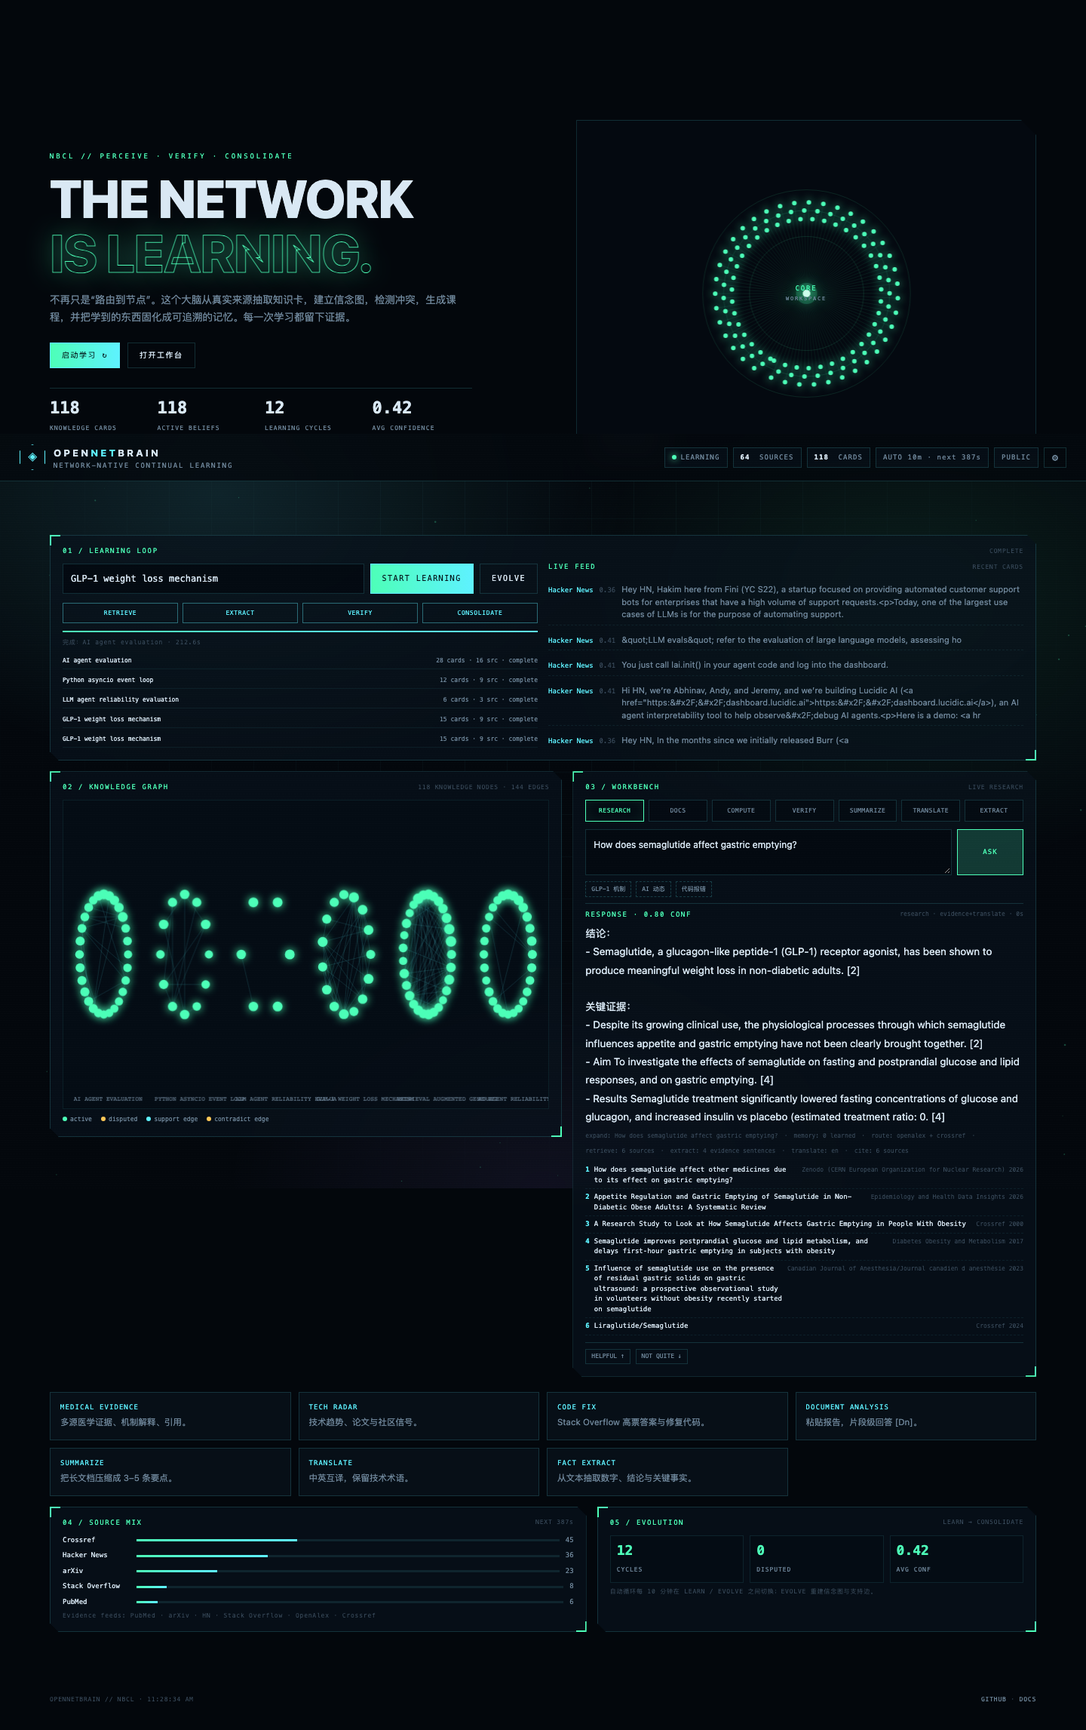
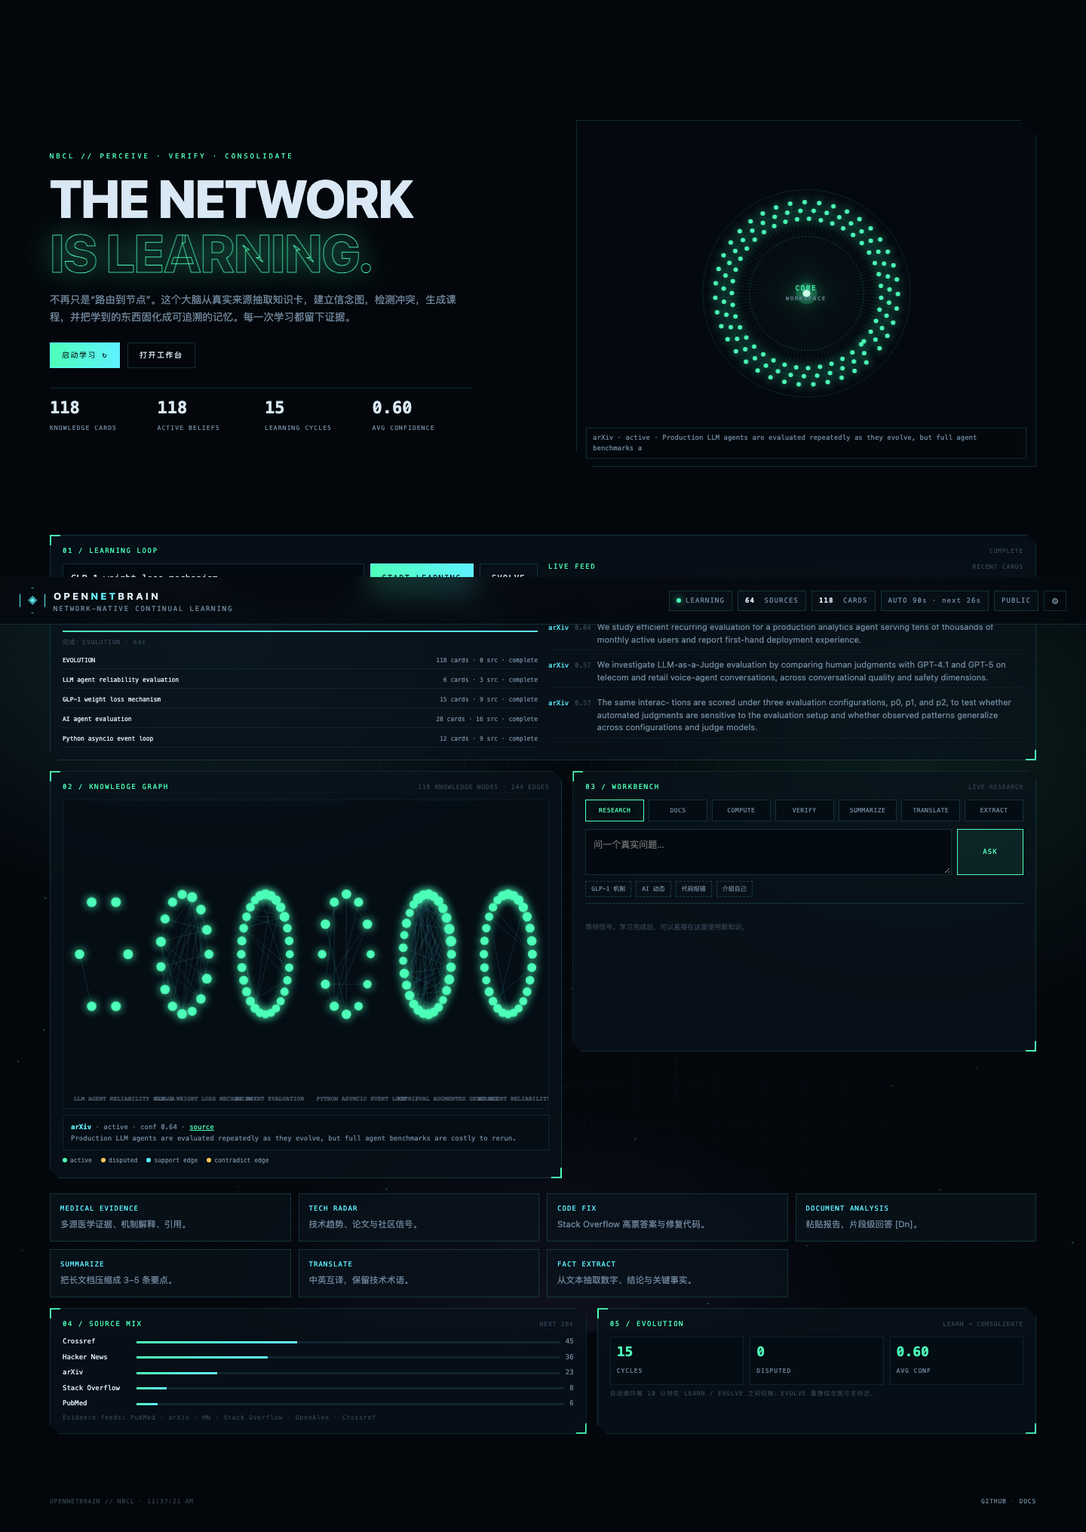
fix: graph detail, self-intro, 90s auto loop, brain v8

diff --git a/brain.html b/brain.html
@@ -58,6 +58,8 @@ textarea,input{background:rgba(3,9,15,.85);border:1px solid var(--line);color:va
 .bottom{display:grid;grid-template-columns:1.1fr .9fr;gap:14px;margin-top:14px}.node{display:flex;justify-content:space-between;gap:8px;font:8px/1.5 var(--mono);border-bottom:1px solid rgba(94,242,255,.08);padding:4px 0;color:var(--muted)}.node b{color:var(--text);font-weight:500}
 pre{background:rgba(3,9,15,.9);border:1px solid var(--line);padding:9px;color:var(--cyan);font:8.5px/1.7 var(--mono);white-space:pre-wrap;word-break:normal;overflow-wrap:break-word;margin:0 0 7px}.copy{width:100%;border:1px solid var(--green);background:rgba(77,255,184,.08);color:var(--green);font:8px/1 var(--mono);letter-spacing:.12em;padding:7px;cursor:pointer}
 .modal{position:fixed;inset:0;z-index:300;display:none;place-items:center;background:rgba(2,5,9,.85);backdrop-filter:blur(10px)}.modal.open{display:grid}.modal-card{width:min(420px,92vw);background:#08111b;border:1px solid var(--green);padding:20px}.modal-card h3{font:10px/1 var(--mono);letter-spacing:.2em;color:var(--green);margin:0 0 8px}.modal-card p{color:var(--muted);font-size:11px;margin:0 0 12px}.modal-actions{display:flex;gap:7px;margin-top:10px}.modal-actions button{flex:1;padding:8px;font:8px/1 var(--mono);letter-spacing:.12em;cursor:pointer;border:1px solid var(--green);background:var(--green);color:#021016}.modal-actions .ghost{background:transparent;color:var(--text);border-color:var(--line)}
+.graph-detail{margin-top:8px;border:1px solid rgba(94,242,255,.12);padding:8px 10px;font:9px/1.6 var(--mono);color:var(--muted);min-height:38px;background:rgba(3,9,15,.35)}
+.graph-detail b{color:var(--cyan)}.graph-detail a{color:var(--green)}
 .mix{display:flex;flex-direction:column;gap:7px}
 .mix-row{display:flex;align-items:center;gap:8px;font:9px/1.5 var(--mono);color:var(--muted)}
 .mix-row b{width:90px;color:var(--text);font-weight:500}.mix-bar{flex:1;height:3px;background:rgba(94,242,255,.1);overflow:hidden}.mix-bar i{display:block;height:100%;background:linear-gradient(90deg,var(--green),var(--cyan))}
@@ -137,6 +139,7 @@ footer{max-width:1360px;margin:0 auto;padding:0 26px 34px;display:flex;justify-c
     <div class="panel">
       <div class="head"><span class="tag">02 / KNOWLEDGE GRAPH</span><span class="hint" id="graphInfo">--</span></div>
       <canvas id="graphCanvas"></canvas>
+      <div class="graph-detail" id="graphDetail">点击节点查看知识卡</div>
       <div class="legend"><span><i style="background:#4dffb8"></i>active</span><span><i style="background:#ffc857"></i>disputed</span><span><i style="background:#5ef2ff"></i>support edge</span><span><i style="background:#ffc857"></i>contradict edge</span></div>
     </div>
 
@@ -159,6 +162,7 @@ footer{max-width:1360px;margin:0 auto;padding:0 26px 34px;display:flex;justify-c
         <button data-q="GLP-1 减肥药的作用机制是什么？">GLP-1 机制</button>
         <button data-q="最近 AI 领域有什么值得关注的事？">AI 动态</button>
         <button data-q="Python asyncio RuntimeError event loop is closed 怎么解决？">代码报错</button>
+        <button data-q="介绍一下你自己">介绍自己</button>
       </div>
       <div class="response" id="response"><div class="empty">等待信号。学习完成后，可以直接在这里使用新知识。</div></div>
     </div>
@@ -242,7 +246,8 @@ async function refreshBrain() {
     $('statCycles').textContent = m.cycles ?? 0; $('statConf').textContent = (m.avg_confidence ?? 0).toFixed(2);
     $('cardCountTop').textContent = m.cards ?? 0;
     const a = s.auto || {};
-    $('autoState').textContent = a.enabled ? `AUTO ${Math.round((a.interval||600)/60)}m · next ${a.next_in ?? '--'}s` : 'AUTO OFF';
+    const sec = a.interval || 90; const alabel = sec < 120 ? `${sec}s` : `${Math.round(sec/60)}m`;
+    $('autoState').textContent = a.enabled ? `AUTO ${alabel} · next ${a.next_in ?? '--'}s` : 'AUTO OFF';
     $('autoHint').textContent = a.enabled ? `NEXT ${a.next_in ?? '--'}s` : 'AUTO OFF';
     $('linkState').textContent = m.cards ? 'LEARNING' : 'IDLE'; $('dot').classList.toggle('off', !m.cards);
     $('sourceCount').textContent = m.sources ?? 0;
@@ -290,10 +295,18 @@ function drawGraph() {
   (state.graph.edges||[]).forEach(e => { const a=pos[e.source], b=pos[e.target]; if(!a||!b)return; x.beginPath(); x.moveTo(a.x,a.y); x.lineTo(b.x,b.y); x.strokeStyle=e.kind==='contradicts'?'rgba(255,200,87,.35)':'rgba(94,242,255,.14)'; x.stroke(); });
   nodes.forEach(n => { const p=pos[n.id]; x.beginPath(); x.arc(p.x,p.y,4+Math.min(3,(n.confidence||.5)*4),0,7); x.fillStyle=n.status==='disputed'?'#ffc857':'#4dffb8'; x.shadowColor=x.fillStyle; x.shadowBlur=12; x.fill(); x.shadowBlur=0; });
   centers.forEach(c0 => { x.fillStyle='rgba(111,135,155,.8)'; x.font='8px monospace'; x.fillText(c0.t.toUpperCase().slice(0,28), c0.x-40, H-10); });
+  window.__graphPos = pos; window.__graphNodes = nodes;
   c.onclick = ev => {
     const rect=c.getBoundingClientRect(); const mx=ev.clientX-rect.left, my=ev.clientY-rect.top;
     let best=null, bd=1e9; nodes.forEach(n=>{const p=pos[n.id];const d=Math.hypot(p.x-mx,p.y-my);if(d<bd){bd=d;best=n;}});
-    if(best && bd<18){ $('nodeDetail').textContent = `${best.source_type} · ${best.status} · conf ${best.confidence} — ${best.label}`; } else { $('nodeDetail').textContent='点击脑图节点查看知识卡'; }
+    if(best && bd<22){
+      const link = best.source_url ? ` · <a href="${esc(best.source_url)}" target="_blank" rel="noopener">source</a>` : '';
+      $('graphDetail').innerHTML = `<b>${esc(best.source_type||'')}</b> · ${esc(best.status)} · conf ${Number(best.confidence||0).toFixed(2)}${link}<br>${esc(best.claim||best.label)}`;
+      $('nodeDetail').textContent = `${best.source_type} · ${best.status} · ${best.label}`;
+    } else {
+      $('graphDetail').textContent = '点击节点查看知识卡';
+      $('nodeDetail').textContent = '点击脑图节点查看知识卡';
+    }
   };
 }
 

diff --git a/docs/brain.html b/docs/brain.html
@@ -58,6 +58,8 @@ textarea,input{background:rgba(3,9,15,.85);border:1px solid var(--line);color:va
 .bottom{display:grid;grid-template-columns:1.1fr .9fr;gap:14px;margin-top:14px}.node{display:flex;justify-content:space-between;gap:8px;font:8px/1.5 var(--mono);border-bottom:1px solid rgba(94,242,255,.08);padding:4px 0;color:var(--muted)}.node b{color:var(--text);font-weight:500}
 pre{background:rgba(3,9,15,.9);border:1px solid var(--line);padding:9px;color:var(--cyan);font:8.5px/1.7 var(--mono);white-space:pre-wrap;word-break:normal;overflow-wrap:break-word;margin:0 0 7px}.copy{width:100%;border:1px solid var(--green);background:rgba(77,255,184,.08);color:var(--green);font:8px/1 var(--mono);letter-spacing:.12em;padding:7px;cursor:pointer}
 .modal{position:fixed;inset:0;z-index:300;display:none;place-items:center;background:rgba(2,5,9,.85);backdrop-filter:blur(10px)}.modal.open{display:grid}.modal-card{width:min(420px,92vw);background:#08111b;border:1px solid var(--green);padding:20px}.modal-card h3{font:10px/1 var(--mono);letter-spacing:.2em;color:var(--green);margin:0 0 8px}.modal-card p{color:var(--muted);font-size:11px;margin:0 0 12px}.modal-actions{display:flex;gap:7px;margin-top:10px}.modal-actions button{flex:1;padding:8px;font:8px/1 var(--mono);letter-spacing:.12em;cursor:pointer;border:1px solid var(--green);background:var(--green);color:#021016}.modal-actions .ghost{background:transparent;color:var(--text);border-color:var(--line)}
+.graph-detail{margin-top:8px;border:1px solid rgba(94,242,255,.12);padding:8px 10px;font:9px/1.6 var(--mono);color:var(--muted);min-height:38px;background:rgba(3,9,15,.35)}
+.graph-detail b{color:var(--cyan)}.graph-detail a{color:var(--green)}
 .mix{display:flex;flex-direction:column;gap:7px}
 .mix-row{display:flex;align-items:center;gap:8px;font:9px/1.5 var(--mono);color:var(--muted)}
 .mix-row b{width:90px;color:var(--text);font-weight:500}.mix-bar{flex:1;height:3px;background:rgba(94,242,255,.1);overflow:hidden}.mix-bar i{display:block;height:100%;background:linear-gradient(90deg,var(--green),var(--cyan))}
@@ -137,6 +139,7 @@ footer{max-width:1360px;margin:0 auto;padding:0 26px 34px;display:flex;justify-c
     <div class="panel">
       <div class="head"><span class="tag">02 / KNOWLEDGE GRAPH</span><span class="hint" id="graphInfo">--</span></div>
       <canvas id="graphCanvas"></canvas>
+      <div class="graph-detail" id="graphDetail">点击节点查看知识卡</div>
       <div class="legend"><span><i style="background:#4dffb8"></i>active</span><span><i style="background:#ffc857"></i>disputed</span><span><i style="background:#5ef2ff"></i>support edge</span><span><i style="background:#ffc857"></i>contradict edge</span></div>
     </div>
 
@@ -159,6 +162,7 @@ footer{max-width:1360px;margin:0 auto;padding:0 26px 34px;display:flex;justify-c
         <button data-q="GLP-1 减肥药的作用机制是什么？">GLP-1 机制</button>
         <button data-q="最近 AI 领域有什么值得关注的事？">AI 动态</button>
         <button data-q="Python asyncio RuntimeError event loop is closed 怎么解决？">代码报错</button>
+        <button data-q="介绍一下你自己">介绍自己</button>
       </div>
       <div class="response" id="response"><div class="empty">等待信号。学习完成后，可以直接在这里使用新知识。</div></div>
     </div>
@@ -242,7 +246,8 @@ async function refreshBrain() {
     $('statCycles').textContent = m.cycles ?? 0; $('statConf').textContent = (m.avg_confidence ?? 0).toFixed(2);
     $('cardCountTop').textContent = m.cards ?? 0;
     const a = s.auto || {};
-    $('autoState').textContent = a.enabled ? `AUTO ${Math.round((a.interval||600)/60)}m · next ${a.next_in ?? '--'}s` : 'AUTO OFF';
+    const sec = a.interval || 90; const alabel = sec < 120 ? `${sec}s` : `${Math.round(sec/60)}m`;
+    $('autoState').textContent = a.enabled ? `AUTO ${alabel} · next ${a.next_in ?? '--'}s` : 'AUTO OFF';
     $('autoHint').textContent = a.enabled ? `NEXT ${a.next_in ?? '--'}s` : 'AUTO OFF';
     $('linkState').textContent = m.cards ? 'LEARNING' : 'IDLE'; $('dot').classList.toggle('off', !m.cards);
     $('sourceCount').textContent = m.sources ?? 0;
@@ -290,10 +295,18 @@ function drawGraph() {
   (state.graph.edges||[]).forEach(e => { const a=pos[e.source], b=pos[e.target]; if(!a||!b)return; x.beginPath(); x.moveTo(a.x,a.y); x.lineTo(b.x,b.y); x.strokeStyle=e.kind==='contradicts'?'rgba(255,200,87,.35)':'rgba(94,242,255,.14)'; x.stroke(); });
   nodes.forEach(n => { const p=pos[n.id]; x.beginPath(); x.arc(p.x,p.y,4+Math.min(3,(n.confidence||.5)*4),0,7); x.fillStyle=n.status==='disputed'?'#ffc857':'#4dffb8'; x.shadowColor=x.fillStyle; x.shadowBlur=12; x.fill(); x.shadowBlur=0; });
   centers.forEach(c0 => { x.fillStyle='rgba(111,135,155,.8)'; x.font='8px monospace'; x.fillText(c0.t.toUpperCase().slice(0,28), c0.x-40, H-10); });
+  window.__graphPos = pos; window.__graphNodes = nodes;
   c.onclick = ev => {
     const rect=c.getBoundingClientRect(); const mx=ev.clientX-rect.left, my=ev.clientY-rect.top;
     let best=null, bd=1e9; nodes.forEach(n=>{const p=pos[n.id];const d=Math.hypot(p.x-mx,p.y-my);if(d<bd){bd=d;best=n;}});
-    if(best && bd<18){ $('nodeDetail').textContent = `${best.source_type} · ${best.status} · conf ${best.confidence} — ${best.label}`; } else { $('nodeDetail').textContent='点击脑图节点查看知识卡'; }
+    if(best && bd<22){
+      const link = best.source_url ? ` · <a href="${esc(best.source_url)}" target="_blank" rel="noopener">source</a>` : '';
+      $('graphDetail').innerHTML = `<b>${esc(best.source_type||'')}</b> · ${esc(best.status)} · conf ${Number(best.confidence||0).toFixed(2)}${link}<br>${esc(best.claim||best.label)}`;
+      $('nodeDetail').textContent = `${best.source_type} · ${best.status} · ${best.label}`;
+    } else {
+      $('graphDetail').textContent = '点击节点查看知识卡';
+      $('nodeDetail').textContent = '点击脑图节点查看知识卡';
+    }
   };
 }
 

diff --git a/docs/index.html b/docs/index.html
@@ -40,7 +40,7 @@ footer{border-top:1px solid var(--line);margin-top:20px;padding-top:14px;display
   <h1>THE NETWORK<br><em>IS LEARNING.</em></h1>
   <p class="lead">OpenNetBrain 是一个持续学习的网络大脑：从真实来源抽取知识卡，建立信念图，检测冲突，生成课程，并把学到的东西固化成可追溯的记忆。它每 10 分钟自动在“学习”和“进化”之间切换。</p>
   <div class="actions">
-    <a class="btn" href="./brain.html?v=7">进入网络大脑</a>
+    <a class="btn" href="./brain.html?v=8">进入网络大脑</a>
     <a class="btn ghost" href="https://github.com/zacrisy/open-net-agent">GitHub</a>
     <a class="btn ghost" href="https://github.com/zacrisy/open-net-agent/blob/main/nbpw/DESIGN.md">设计文档</a>
   </div>
@@ -60,7 +60,7 @@ footer{border-top:1px solid var(--line);margin-top:20px;padding-top:14px;display
 
   <footer>
     <div>OPENNETBRAIN // NBCL</div>
-    <div><a href="https://github.com/zacrisy/open-net-agent">GITHUB</a> · <a href="https://github.com/zacrisy/open-net-agent/blob/main/nbpw/REPORT_CONTINUAL.md">持续学习实验</a> · <a href="brain.html?v=7">控制台</a></div>
+    <div><a href="https://github.com/zacrisy/open-net-agent">GITHUB</a> · <a href="https://github.com/zacrisy/open-net-agent/blob/main/nbpw/REPORT_CONTINUAL.md">持续学习实验</a> · <a href="brain.html?v=8">控制台</a></div>
   </footer>
 </main>
 </body>

diff --git a/brain.py b/brain.py
@@ -187,9 +187,10 @@ def graph():
             ang = 2 * math.pi * i / max(1, len(items))
             rad = 100 + (hash(topic) % 50)
             nodes.append({"id": card["id"], "topic": topic, "label": card["claim"][:90],
-                          "status": card["status"], "confidence": card["confidence"],
-                          "source_type": card["source_type"], "x": math.cos(ang) * rad,
-                          "y": math.sin(ang) * rad})
+                          "claim": card["claim"], "status": card["status"], "confidence": card["confidence"],
+                          "source_type": card["source_type"], "source_url": card.get("source", {}).get("url", ""),
+                          "source_title": card.get("source", {}).get("title", ""),
+                          "x": math.cos(ang) * rad, "y": math.sin(ang) * rad})
     edges = []
     c = _conn()
     for src, dst, kind in c.execute("SELECT src,dst,kind FROM edges").fetchall():
@@ -221,27 +222,31 @@ AUTO_TOPICS = ["GLP-1 weight loss mechanism", "AI agent evaluation", "Python asy
                "LLM agent reliability evaluation", "retrieval augmented generation evaluation"]
 
 
-def auto_start(interval=600):
+def auto_start(interval=90):
     with LOCK:
         AUTO.update({"enabled": True, "interval": interval, "next": time.time() + 4})
     def loop():
         time.sleep(4)
-        with LOCK:
-            busy = CURRENT.get("stage") in ("retrieving", "extracting", "verifying", "consolidating")
-        if not busy:
-            start(random.choice(AUTO_TOPICS))
-        while True:
-            with LOCK:
-                AUTO["next"] = time.time() + interval
-            time.sleep(interval)
+        try:
             with LOCK:
                 busy = CURRENT.get("stage") in ("retrieving", "extracting", "verifying", "consolidating")
-            if busy:
-                continue
-            if AUTO.get("last_kind") == "learn":
-                consolidate()
-            else:
+            if not busy:
                 start(random.choice(AUTO_TOPICS))
+            while True:
+                with LOCK:
+                    AUTO["next"] = time.time() + interval
+                time.sleep(interval)
+                with LOCK:
+                    busy = CURRENT.get("stage") in ("retrieving", "extracting", "verifying", "consolidating")
+                if busy:
+                    continue
+                if AUTO.get("last_kind") == "learn":
+                    consolidate()
+                else:
+                    start(random.choice(AUTO_TOPICS))
+        except Exception as e:
+            print("AUTO LOOP ERROR:", e, flush=True)
+            time.sleep(10)
     threading.Thread(target=loop, daemon=True).start()
 
 

diff --git a/coordinator_async.py b/coordinator_async.py
@@ -115,13 +115,30 @@ def _knowledge_pack():
     return STARTER_DOCS + db.top_experience_docs(30)
 
 
+def _self_intro():
+    s = brain.status(); m = s.get("metrics", {}); a = s.get("auto", {})
+    answer = (f"我是 OpenNetBrain，一个持续学习的网络大脑。\n\n"
+              f"当前状态：{m.get('cards',0)} 张知识卡、{m.get('sources',0)} 个真实来源、{m.get('cycles',0)} 个学习/进化周期；"
+              f"自动循环每 {a.get('interval',90)} 秒在 LEARN / EVOLVE 之间切换。\n\n"
+              f"我能做：Research（多源研究 + 引用）、Docs（文档问答）、Compute（安全计算）、Verify（NLI 核查）、"
+              f"Summarize（摘要）、Translate（翻译）、Extract（事实抽取）。\n\n"
+              f"我的回答优先来自可追溯来源；没有来源时会说明，不会编造。学习发生在知识卡、信念图和课程层，不是改写权重。")
+    return {"answer": answer,
+            "sources": [{"title": "OpenNetBrain internal state", "snippet": f"cards={m.get('cards',0)}, sources={m.get('sources',0)}, cycles={m.get('cycles',0)}", "source": "brain", "url": "", "year": ""}],
+            "trace": [{"step": "self", "detail": "state + capabilities"}, {"step": "cite", "detail": "internal"}],
+            "confidence": 0.99, "engine": "self-model", "elapsed": 0.0}
+
+
 async def _ask_core(d):
     mode = d.get("mode", "research")
     query = str(d.get("query", ""))[:500].strip()
     doc = str(d.get("doc", ""))[:8000]
     claim = str(d.get("claim", ""))[:400].strip()
     evidence = str(d.get("evidence", ""))[:1200].strip()
-    if mode == "verify":
+    SELF = ("介绍", "你是谁", "你能做什么", "你会什么", "介绍一下", "who are you", "what can you do", "about you")
+    if mode == "research" and any(k in (query or "").lower() for k in SELF):
+        res = _self_intro()
+    elif mode == "verify":
         if not claim or not evidence:
             return {"error": "verify 需要 claim 和 evidence"}
         v = await _run_query({"skill": "nli", "query": claim + " || " + evidence, "timeout": 20, "quorum": 1})

diff --git a/promo/LAUNCH.md b/promo/LAUNCH.md
@@ -2,8 +2,8 @@
 
 ## 链接
 
-- **控制台（推荐）**：https://zacrisy.github.io/open-net-agent/brain.html?v=7
-- **短链**：https://tinyurl.com/2yh35zfx
+- **控制台（推荐）**：https://zacrisy.github.io/open-net-agent/brain.html?v=8
+- **短链**：https://tinyurl.com/2ae9g2eq
 - **仓库**：https://github.com/zacrisy/open-net-agent
 - **Release**：https://github.com/zacrisy/open-net-agent/releases/tag/v0.7.0
 - **Discussion**：https://github.com/zacrisy/open-net-agent/discussions/6
@@ -22,7 +22,7 @@
 
 **Title:** Show HN: OpenNetAgent – a network agent that cites real sources
 
-**URL:** https://zacrisy.github.io/open-net-agent/brain.html?v=7
+**URL:** https://zacrisy.github.io/open-net-agent/brain.html?v=8
 
 **Body:**
 
@@ -69,7 +69,7 @@ increases orexin release”, which is not in any source. So I changed the design
 Feedback (upvote) becomes experience → knowledge pack → new nodes pull it → later
 answers cite `network memory`.
 
-Control deck: https://tinyurl.com/2yh35zfx
+Control deck: https://tinyurl.com/2ae9g2eq
 Repo: https://github.com/zacrisy/open-net-agent
 
 Would love feedback on source ranking, translation quality, and how to distribute
@@ -97,7 +97,7 @@ curl -fsSL $COORD/install.sh | bash -s -- \
 - coordinator routes research / docs / compute / NLI tasks.
 
 I’m looking for 3–5 machine LAN tests and WAN latency reports. Control deck:
-https://tinyurl.com/2yh35zfx
+https://tinyurl.com/2ae9g2eq
 
 ---
 
@@ -117,7 +117,7 @@ Evidence first, not vibes.
 5/ Upvote an answer → experience → knowledge pack → new nodes pull it → later
 answers cite `network memory`.
 
-6/ Try it: https://tinyurl.com/2yh35zfx
+6/ Try it: https://tinyurl.com/2ae9g2eq
 Repo: https://github.com/zacrisy/open-net-agent
 Looking for node runners + contributors.
 
@@ -142,7 +142,7 @@ Looking for node runners + contributors.
 实测：GLP-1 机制返回 4 篇真实论文，约 11 秒；asyncio 报错返回 Stack Overflow
 高票答案。
 
-体验：https://tinyurl.com/2yh35zfx
+体验：https://tinyurl.com/2ae9g2eq
 仓库：https://github.com/zacrisy/open-net-agent
 加入节点：https://github.com/zacrisy/open-net-agent/issues/4
 

diff --git a/README.md b/README.md
@@ -15,7 +15,7 @@
 - **项目主页**：<https://zacrisy.github.io/open-net-agent/>
 - **GitHub**：<https://github.com/zacrisy/open-net-agent>
 - **分享素材 / 发布文案**：<https://github.com/zacrisy/open-net-agent/blob/main/promo/LAUNCH.md>
-- **在线控制台（推荐）**：<https://zacrisy.github.io/open-net-agent/brain.html?v=7>（GitHub Pages，稳定、无隧道警告；后端走 serveo）
+- **在线控制台（推荐）**：<https://zacrisy.github.io/open-net-agent/brain.html?v=8>（GitHub Pages，稳定、无隧道警告；后端走 serveo）
 - **后端直连**：<https://opennetagent2.serveousercontent.com/>（serveo 固定域名；浏览器首次会看到 Serveo 警告页）
 - **一键加入**（把一台电脑变成节点）：
 
@@ -53,7 +53,7 @@ Code: [`nbpw/`](nbpw/) · Design: [`nbpw/DESIGN.md`](nbpw/DESIGN.md) · Report: 
 
 ## Public hosting（重要）
 
-- **UI**：GitHub Pages，公开可访问（`brain.html?v=7`）。
+- **UI**：GitHub Pages，公开可访问（`brain.html?v=8`）。
 - **API**：Cloudflare Quick Tunnel（当前）+ serveo fallback，运行在维护者本机。
 - **不是 24/7 云服务**：Mac 休眠、网络断开或隧道重启会导致 API 不可用；UI 仍能打开，但工作台会显示错误。
 - 生产部署见 `deploy/PUBLIC.md`（VPS + Docker/Caddy 或命名 Cloudflare Tunnel）。

diff --git a/ONLINE.md b/ONLINE.md
@@ -2,7 +2,7 @@
 
 ## 公网访问（已开通）
 
-- **控制台（推荐，无隧道警告）**：<https://zacrisy.github.io/open-net-agent/brain.html?v=7>
+- **控制台（推荐，无隧道警告）**：<https://zacrisy.github.io/open-net-agent/brain.html?v=8>
 - **后端 / 一键加入**：<https://opennetagent2.serveousercontent.com/>（serveo 固定域名；浏览器直连会看到 Serveo 警告页）
 
 - **公网 URL**：<https://opennetagent2.serveousercontent.com/>
@@ -26,7 +26,7 @@
 
 - Browser API（primary）：`https://meal-mature-blah-shepherd.trycloudflare.com`（Cloudflare Quick Tunnel，随机地址，重启会变）
 - CLI / fallback：`https://opennetagent2.serveousercontent.com`（serveo 固定子域名）
-- UI：<https://zacrisy.github.io/open-net-agent/brain.html?v=7>
+- UI：<https://zacrisy.github.io/open-net-agent/brain.html?v=8>
 
 ## 架构
 
